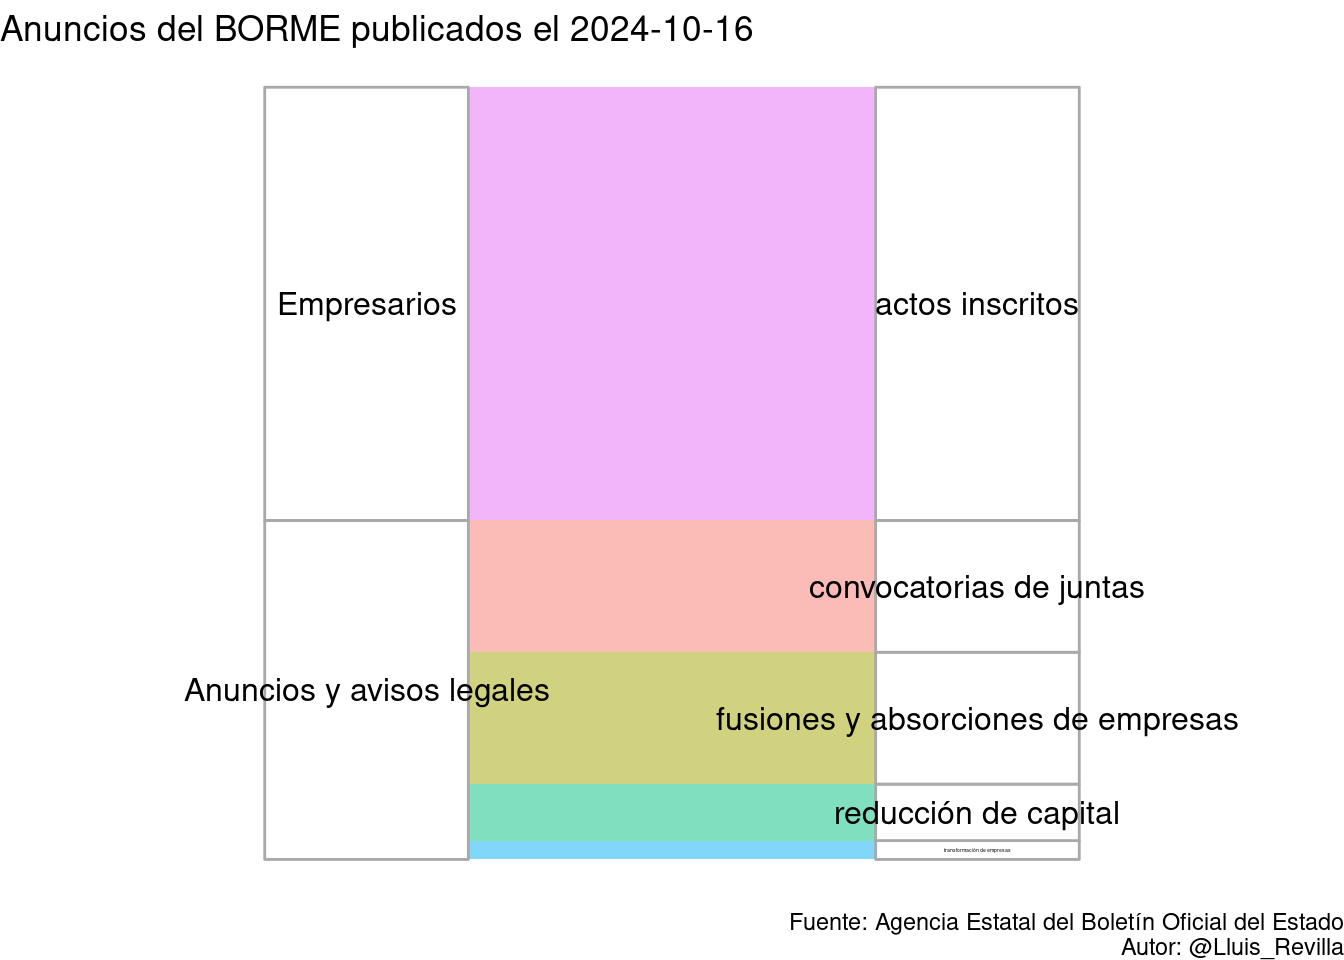
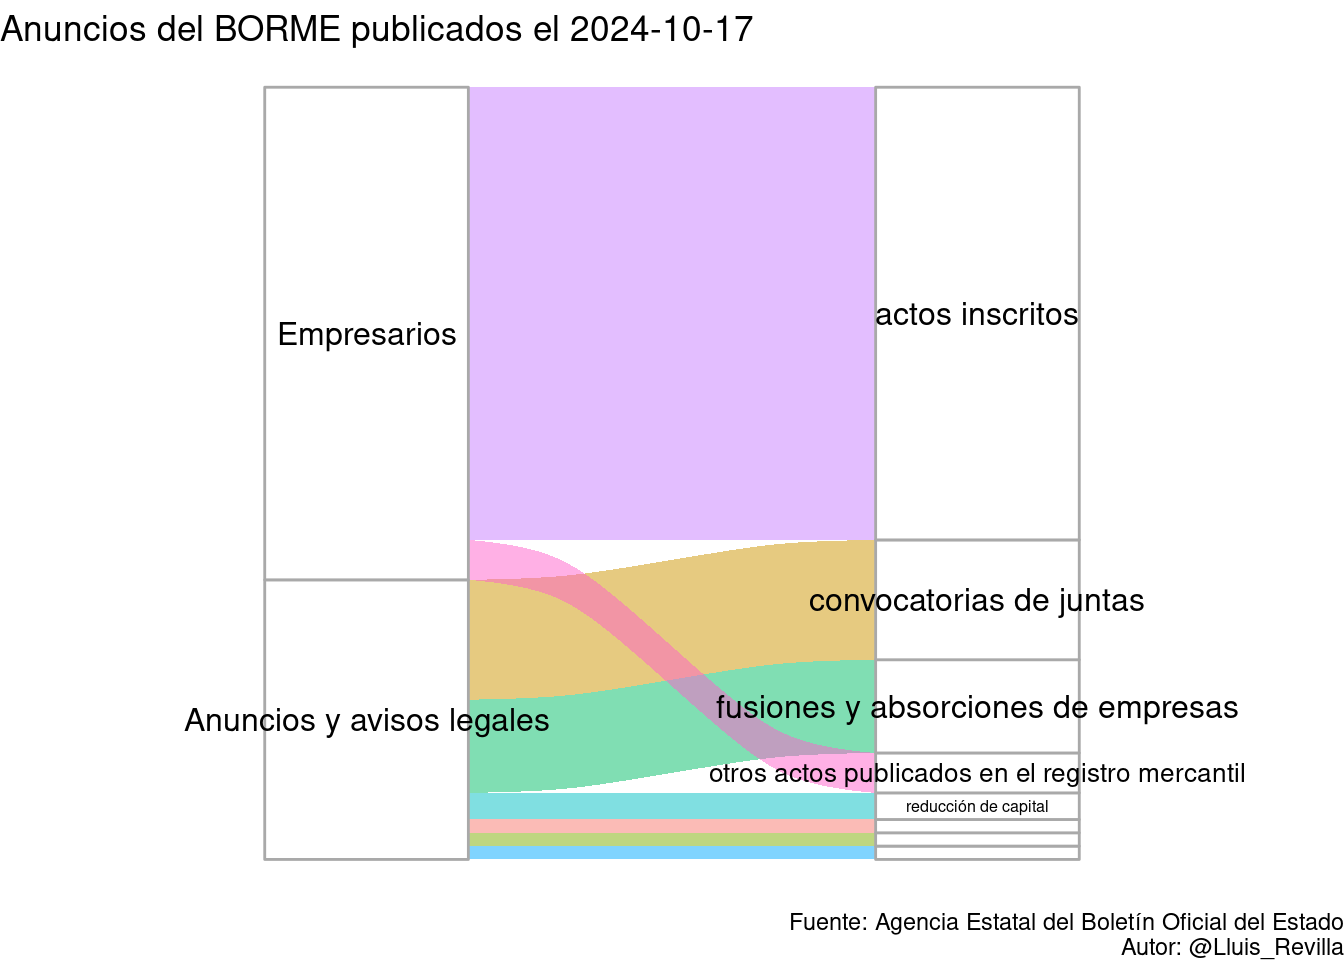
Update BORME

diff --git a/docs/last_BORME.html b/docs/last_BORME.html
@@ -379,14 +379,14 @@ $(document).ready(function () {
 
 <div id="resumen-gráfico" class="section level1">
 <h1>Resumen gráfico</h1>
-<p>Esta página web contiene el último sumario del BORME publicado el 2024-10-16 con 41 publicaciones.</p>
+<p>Esta página web contiene el último sumario del BORME publicado el 2024-10-17 con 58 publicaciones.</p>
 <p><img src="last_BORME_files/figure-html/graphics-1.png" width="672" /></p>
 </div>
 <div id="tabla-de-publicaciones" class="section level1">
 <h1>Tabla de publicaciones</h1>
 <p>Aquí está la tabla completa con enlaces a las publicaciones:</p>
-<div class="datatables html-widget html-fill-item-overflow-hidden html-fill-item" id="htmlwidget-7feeb345f6de2bfd5124" style="width:100%;height:auto;"></div>
-<script type="application/json" data-for="htmlwidget-7feeb345f6de2bfd5124">{"x":{"filter":"top","vertical":false,"filterHTML":"<tr>\n  <td><\/td>\n  <td data-type=\"character\" style=\"vertical-align: top;\">\n    <div class=\"form-group has-feedback\" style=\"margin-bottom: auto;\">\n      <input type=\"search\" placeholder=\"All\" class=\"form-control\" style=\"width: 100%;\"/>\n      <span class=\"glyphicon glyphicon-remove-circle form-control-feedback\"><\/span>\n    <\/div>\n  <\/td>\n  <td data-type=\"character\" style=\"vertical-align: top;\">\n    <div class=\"form-group has-feedback\" style=\"margin-bottom: auto;\">\n      <input type=\"search\" placeholder=\"All\" class=\"form-control\" style=\"width: 100%;\"/>\n      <span class=\"glyphicon glyphicon-remove-circle form-control-feedback\"><\/span>\n    <\/div>\n  <\/td>\n  <td data-type=\"character\" style=\"vertical-align: top;\">\n    <div class=\"form-group has-feedback\" style=\"margin-bottom: auto;\">\n      <input type=\"search\" placeholder=\"All\" class=\"form-control\" style=\"width: 100%;\" disabled=\"\"/>\n      <span class=\"glyphicon glyphicon-remove-circle form-control-feedback\"><\/span>\n    <\/div>\n  <\/td>\n  <td data-type=\"character\" style=\"vertical-align: top;\">\n    <div class=\"form-group has-feedback\" style=\"margin-bottom: auto;\">\n      <input type=\"search\" placeholder=\"All\" class=\"form-control\" style=\"width: 100%;\"/>\n      <span class=\"glyphicon glyphicon-remove-circle form-control-feedback\"><\/span>\n    <\/div>\n  <\/td>\n<\/tr>","data":[["1","2","3","4","5","6","7","8","9","10","11","12","13","14","15","16","17","18","19","20","21","22","23","24","25","26","27","28","29","30","31","32","33","34","35","36","37","38","39","40","41"],["SECCIÓN PRIMERA. Empresarios","SECCIÓN PRIMERA. Empresarios","SECCIÓN PRIMERA. Empresarios","SECCIÓN PRIMERA. Empresarios","SECCIÓN PRIMERA. Empresarios","SECCIÓN PRIMERA. Empresarios","SECCIÓN PRIMERA. Empresarios","SECCIÓN PRIMERA. Empresarios","SECCIÓN PRIMERA. Empresarios","SECCIÓN PRIMERA. Empresarios","SECCIÓN PRIMERA. Empresarios","SECCIÓN PRIMERA. Empresarios","SECCIÓN PRIMERA. Empresarios","SECCIÓN PRIMERA. Empresarios","SECCIÓN PRIMERA. Empresarios","SECCIÓN PRIMERA. Empresarios","SECCIÓN PRIMERA. Empresarios","SECCIÓN PRIMERA. Empresarios","SECCIÓN PRIMERA. Empresarios","SECCIÓN PRIMERA. Empresarios","SECCIÓN PRIMERA. Empresarios","SECCIÓN PRIMERA. Empresarios","SECCIÓN PRIMERA. Empresarios","SECCIÓN SEGUNDA. Anuncios y avisos legales","SECCIÓN SEGUNDA. Anuncios y avisos legales","SECCIÓN SEGUNDA. Anuncios y avisos legales","SECCIÓN SEGUNDA. Anuncios y avisos legales","SECCIÓN SEGUNDA. Anuncios y avisos legales","SECCIÓN SEGUNDA. Anuncios y avisos legales","SECCIÓN SEGUNDA. Anuncios y avisos legales","SECCIÓN SEGUNDA. Anuncios y avisos legales","SECCIÓN SEGUNDA. Anuncios y avisos legales","SECCIÓN SEGUNDA. Anuncios y avisos legales","SECCIÓN SEGUNDA. Anuncios y avisos legales","SECCIÓN SEGUNDA. Anuncios y avisos legales","SECCIÓN SEGUNDA. Anuncios y avisos legales","SECCIÓN SEGUNDA. Anuncios y avisos legales","SECCIÓN SEGUNDA. Anuncios y avisos legales","SECCIÓN SEGUNDA. Anuncios y avisos legales","SECCIÓN SEGUNDA. Anuncios y avisos legales","SECCIÓN SEGUNDA. Anuncios y avisos legales"],["Actos inscritos","Actos inscritos","Actos inscritos","Actos inscritos","Actos inscritos","Actos inscritos","Actos inscritos","Actos inscritos","Actos inscritos","Actos inscritos","Actos inscritos","Actos inscritos","Actos inscritos","Actos inscritos","Actos inscritos","Actos inscritos","Actos inscritos","Actos inscritos","Actos inscritos","Actos inscritos","Actos inscritos","Actos inscritos","Actos inscritos","CONVOCATORIAS DE JUNTAS","CONVOCATORIAS DE JUNTAS","CONVOCATORIAS DE JUNTAS","CONVOCATORIAS DE JUNTAS","CONVOCATORIAS DE JUNTAS","CONVOCATORIAS DE JUNTAS","CONVOCATORIAS DE JUNTAS","FUSIONES Y ABSORCIONES DE EMPRESAS","FUSIONES Y ABSORCIONES DE EMPRESAS","FUSIONES Y ABSORCIONES DE EMPRESAS","FUSIONES Y ABSORCIONES DE EMPRESAS","FUSIONES Y ABSORCIONES DE EMPRESAS","FUSIONES Y ABSORCIONES DE EMPRESAS","FUSIONES Y ABSORCIONES DE EMPRESAS","TRANSFORMACIÓN DE EMPRESAS","REDUCCIÓN DE CAPITAL","REDUCCIÓN DE CAPITAL","REDUCCIÓN DE CAPITAL"],[null,null,null,null,null,null,null,null,null,null,null,null,null,null,null,null,null,null,null,null,null,null,null,null,null,null,null,null,null,null,null,null,null,null,null,null,null,null,null,null,null],["BORME-A-2024-200-02","BORME-A-2024-200-04","BORME-A-2024-200-06","BORME-A-2024-200-08","BORME-A-2024-200-09","BORME-A-2024-200-14","BORME-A-2024-200-15","BORME-A-2024-200-16","BORME-A-2024-200-17","BORME-A-2024-200-18","BORME-A-2024-200-24","BORME-A-2024-200-25","BORME-A-2024-200-29","BORME-A-2024-200-32","BORME-A-2024-200-35","BORME-A-2024-200-36","BORME-A-2024-200-38","BORME-A-2024-200-40","BORME-A-2024-200-44","BORME-A-2024-200-45","BORME-A-2024-200-47","BORME-A-2024-200-51","BORME-A-2024-200-99","BORME-C-2024-5534","BORME-C-2024-5535","BORME-C-2024-5536","BORME-C-2024-5537","BORME-C-2024-5538","BORME-C-2024-5539","BORME-C-2024-5540","BORME-C-2024-5541","BORME-C-2024-5542","BORME-C-2024-5543","BORME-C-2024-5544","BORME-C-2024-5545","BORME-C-2024-5546","BORME-C-2024-5547","BORME-C-2024-5548","BORME-C-2024-5549","BORME-C-2024-5550","BORME-C-2024-5551"]],"container":"<table class=\"display\">\n  <thead>\n    <tr>\n      <th> <\/th>\n      <th>Sección<\/th>\n      <th>Emisor<\/th>\n      <th>Texto<\/th>\n      <th>Link<\/th>\n    <\/tr>\n  <\/thead>\n<\/table>","options":{"pageLength":10,"autoWidth":true,"columnDefs":[{"orderable":false,"targets":0},{"name":" ","targets":0},{"name":"Sección","targets":1},{"name":"Emisor","targets":2},{"name":"Texto","targets":3},{"name":"Link","targets":4}],"order":[],"orderClasses":false,"orderCellsTop":true}},"evals":[],"jsHooks":[]}</script>
+<div class="datatables html-widget html-fill-item-overflow-hidden html-fill-item" id="htmlwidget-994e1a341e640086a90e" style="width:100%;height:auto;"></div>
+<script type="application/json" data-for="htmlwidget-994e1a341e640086a90e">{"x":{"filter":"top","vertical":false,"filterHTML":"<tr>\n  <td><\/td>\n  <td data-type=\"character\" style=\"vertical-align: top;\">\n    <div class=\"form-group has-feedback\" style=\"margin-bottom: auto;\">\n      <input type=\"search\" placeholder=\"All\" class=\"form-control\" style=\"width: 100%;\"/>\n      <span class=\"glyphicon glyphicon-remove-circle form-control-feedback\"><\/span>\n    <\/div>\n  <\/td>\n  <td data-type=\"character\" style=\"vertical-align: top;\">\n    <div class=\"form-group has-feedback\" style=\"margin-bottom: auto;\">\n      <input type=\"search\" placeholder=\"All\" class=\"form-control\" style=\"width: 100%;\"/>\n      <span class=\"glyphicon glyphicon-remove-circle form-control-feedback\"><\/span>\n    <\/div>\n  <\/td>\n  <td data-type=\"character\" style=\"vertical-align: top;\">\n    <div class=\"form-group has-feedback\" style=\"margin-bottom: auto;\">\n      <input type=\"search\" placeholder=\"All\" class=\"form-control\" style=\"width: 100%;\" disabled=\"\"/>\n      <span class=\"glyphicon glyphicon-remove-circle form-control-feedback\"><\/span>\n    <\/div>\n  <\/td>\n  <td data-type=\"character\" style=\"vertical-align: top;\">\n    <div class=\"form-group has-feedback\" style=\"margin-bottom: auto;\">\n      <input type=\"search\" placeholder=\"All\" class=\"form-control\" style=\"width: 100%;\"/>\n      <span class=\"glyphicon glyphicon-remove-circle form-control-feedback\"><\/span>\n    <\/div>\n  <\/td>\n<\/tr>","data":[["1","2","3","4","5","6","7","8","9","10","11","12","13","14","15","16","17","18","19","20","21","22","23","24","25","26","27","28","29","30","31","32","33","34","35","36","37","38","39","40","41","42","43","44","45","46","47","48","49","50","51","52","53","54","55","56","57","58"],["SECCIÓN PRIMERA. Empresarios","SECCIÓN PRIMERA. Empresarios","SECCIÓN PRIMERA. Empresarios","SECCIÓN PRIMERA. Empresarios","SECCIÓN PRIMERA. Empresarios","SECCIÓN PRIMERA. Empresarios","SECCIÓN PRIMERA. Empresarios","SECCIÓN PRIMERA. Empresarios","SECCIÓN PRIMERA. Empresarios","SECCIÓN PRIMERA. Empresarios","SECCIÓN PRIMERA. Empresarios","SECCIÓN PRIMERA. Empresarios","SECCIÓN PRIMERA. Empresarios","SECCIÓN PRIMERA. Empresarios","SECCIÓN PRIMERA. Empresarios","SECCIÓN PRIMERA. Empresarios","SECCIÓN PRIMERA. Empresarios","SECCIÓN PRIMERA. Empresarios","SECCIÓN PRIMERA. Empresarios","SECCIÓN PRIMERA. Empresarios","SECCIÓN PRIMERA. Empresarios","SECCIÓN PRIMERA. Empresarios","SECCIÓN PRIMERA. Empresarios","SECCIÓN PRIMERA. Empresarios","SECCIÓN PRIMERA. Empresarios","SECCIÓN PRIMERA. Empresarios","SECCIÓN PRIMERA. Empresarios","SECCIÓN PRIMERA. Empresarios","SECCIÓN PRIMERA. Empresarios","SECCIÓN PRIMERA. Empresarios","SECCIÓN PRIMERA. Empresarios","SECCIÓN PRIMERA. Empresarios","SECCIÓN PRIMERA. Empresarios","SECCIÓN PRIMERA. Empresarios","SECCIÓN PRIMERA. Empresarios","SECCIÓN PRIMERA. Empresarios","SECCIÓN PRIMERA. Empresarios","SECCIÓN SEGUNDA. Anuncios y avisos legales","SECCIÓN SEGUNDA. Anuncios y avisos legales","SECCIÓN SEGUNDA. Anuncios y avisos legales","SECCIÓN SEGUNDA. Anuncios y avisos legales","SECCIÓN SEGUNDA. Anuncios y avisos legales","SECCIÓN SEGUNDA. Anuncios y avisos legales","SECCIÓN SEGUNDA. Anuncios y avisos legales","SECCIÓN SEGUNDA. Anuncios y avisos legales","SECCIÓN SEGUNDA. Anuncios y avisos legales","SECCIÓN SEGUNDA. Anuncios y avisos legales","SECCIÓN SEGUNDA. Anuncios y avisos legales","SECCIÓN SEGUNDA. Anuncios y avisos legales","SECCIÓN SEGUNDA. Anuncios y avisos legales","SECCIÓN SEGUNDA. Anuncios y avisos legales","SECCIÓN SEGUNDA. Anuncios y avisos legales","SECCIÓN SEGUNDA. Anuncios y avisos legales","SECCIÓN SEGUNDA. Anuncios y avisos legales","SECCIÓN SEGUNDA. Anuncios y avisos legales","SECCIÓN SEGUNDA. Anuncios y avisos legales","SECCIÓN SEGUNDA. Anuncios y avisos legales","SECCIÓN SEGUNDA. Anuncios y avisos legales"],["Actos inscritos","Actos inscritos","Actos inscritos","Actos inscritos","Actos inscritos","Actos inscritos","Actos inscritos","Actos inscritos","Actos inscritos","Actos inscritos","Actos inscritos","Actos inscritos","Actos inscritos","Actos inscritos","Actos inscritos","Actos inscritos","Actos inscritos","Actos inscritos","Actos inscritos","Actos inscritos","Actos inscritos","Actos inscritos","Actos inscritos","Actos inscritos","Actos inscritos","Actos inscritos","Actos inscritos","Actos inscritos","Actos inscritos","Actos inscritos","Actos inscritos","Actos inscritos","Actos inscritos","Actos inscritos","Otros actos publicados en el Registro Mercantil","Otros actos publicados en el Registro Mercantil","Otros actos publicados en el Registro Mercantil","BALANCES","CONVOCATORIAS DE JUNTAS","CONVOCATORIAS DE JUNTAS","CONVOCATORIAS DE JUNTAS","CONVOCATORIAS DE JUNTAS","CONVOCATORIAS DE JUNTAS","CONVOCATORIAS DE JUNTAS","CONVOCATORIAS DE JUNTAS","CONVOCATORIAS DE JUNTAS","CONVOCATORIAS DE JUNTAS","FUSIONES Y ABSORCIONES DE EMPRESAS","FUSIONES Y ABSORCIONES DE EMPRESAS","FUSIONES Y ABSORCIONES DE EMPRESAS","FUSIONES Y ABSORCIONES DE EMPRESAS","FUSIONES Y ABSORCIONES DE EMPRESAS","FUSIONES Y ABSORCIONES DE EMPRESAS","FUSIONES Y ABSORCIONES DE EMPRESAS","ESCISIÓN DE EMPRESAS","TRANSFORMACIÓN DE EMPRESAS","REDUCCIÓN DE CAPITAL","REDUCCIÓN DE CAPITAL"],[null,null,null,null,null,null,null,null,null,null,null,null,null,null,null,null,null,null,null,null,null,null,null,null,null,null,null,null,null,null,null,null,null,null,null,null,null,null,null,null,null,null,null,null,null,null,null,null,null,null,null,null,null,null,null,null,null,null],["BORME-A-2024-201-02","BORME-A-2024-201-03","BORME-A-2024-201-04","BORME-A-2024-201-06","BORME-A-2024-201-07","BORME-A-2024-201-08","BORME-A-2024-201-10","BORME-A-2024-201-11","BORME-A-2024-201-12","BORME-A-2024-201-13","BORME-A-2024-201-14","BORME-A-2024-201-15","BORME-A-2024-201-18","BORME-A-2024-201-19","BORME-A-2024-201-22","BORME-A-2024-201-23","BORME-A-2024-201-24","BORME-A-2024-201-25","BORME-A-2024-201-28","BORME-A-2024-201-29","BORME-A-2024-201-30","BORME-A-2024-201-31","BORME-A-2024-201-33","BORME-A-2024-201-34","BORME-A-2024-201-36","BORME-A-2024-201-39","BORME-A-2024-201-41","BORME-A-2024-201-43","BORME-A-2024-201-45","BORME-A-2024-201-46","BORME-A-2024-201-48","BORME-A-2024-201-49","BORME-A-2024-201-50","BORME-A-2024-201-99","BORME-B-2024-201-07","BORME-B-2024-201-08","BORME-B-2024-201-28","BORME-C-2024-5552","BORME-C-2024-5553","BORME-C-2024-5554","BORME-C-2024-5555","BORME-C-2024-5556","BORME-C-2024-5557","BORME-C-2024-5558","BORME-C-2024-5559","BORME-C-2024-5560","BORME-C-2024-5561","BORME-C-2024-5562","BORME-C-2024-5563","BORME-C-2024-5564","BORME-C-2024-5565","BORME-C-2024-5566","BORME-C-2024-5567","BORME-C-2024-5568","BORME-C-2024-5569","BORME-C-2024-5570","BORME-C-2024-5571","BORME-C-2024-5572"]],"container":"<table class=\"display\">\n  <thead>\n    <tr>\n      <th> <\/th>\n      <th>Sección<\/th>\n      <th>Emisor<\/th>\n      <th>Texto<\/th>\n      <th>Link<\/th>\n    <\/tr>\n  <\/thead>\n<\/table>","options":{"pageLength":10,"autoWidth":true,"columnDefs":[{"orderable":false,"targets":0},{"name":" ","targets":0},{"name":"Sección","targets":1},{"name":"Emisor","targets":2},{"name":"Texto","targets":3},{"name":"Link","targets":4}],"order":[],"orderClasses":false,"orderCellsTop":true}},"evals":[],"jsHooks":[]}</script>
 </div>
 
 
